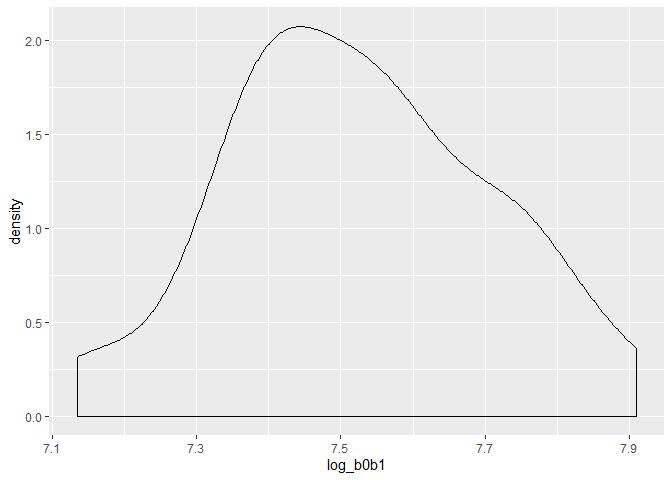
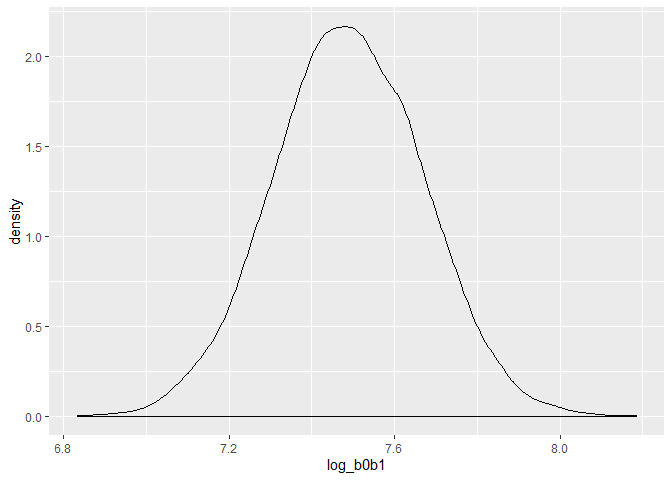
Changed bootstraps to 5000, added distribution descriptions

diff --git a/p8105_hw6_mrc2229.md b/p8105_hw6_mrc2229.md
@@ -331,7 +331,7 @@ weather_df =
     tmin = tmin / 10,
     tmax = tmax / 10) %>%
   select(name, id, everything())%>% 
-  bootstrap(n = 50)
+  bootstrap(n = 5000)
 ```
 
     ## Registered S3 method overwritten by 'crul':
@@ -348,8 +348,8 @@ weather_df =
 
     ## file min/max dates: 1869-01-01 / 2019-10-31
 
-Finding R-squared
------------------
+Distribution of R-squared
+-------------------------
 
 ``` r
 r_strap=weather_df %>%
@@ -367,10 +367,10 @@ r_strap=weather_df %>%
 r_strap
 ```
 
-![](p8105_hw6_mrc2229_files/figure-markdown_github/unnamed-chunk-10-1.png)
+![](p8105_hw6_mrc2229_files/figure-markdown_github/unnamed-chunk-10-1.png) \* The distribution of r-squared estimates appears to be left-skewed, and most of the estimates seem to fall between 0.90 and 0.92, with some higher than 0.93 and some lower than 0.88. Overall, the estimated values of r-squared in this sample are high.
 
-Finding log(β<sup>0∗β</sup>1)
------------------------------
+Distribution of log(β<sup>0∗β</sup>1)
+-------------------------------------
 
 ``` r
 beta_strap=weather_df %>%
@@ -394,3 +394,5 @@ beta_strap
 ```
 
 ![](p8105_hw6_mrc2229_files/figure-markdown_github/unnamed-chunk-11-1.png)
+
+-   The distribution of log(β<sup>0∗β</sup>1) fairly symetric. Most of the estimates seem to fall between 7.2 and 7.8, with some estimates going above 8.0 on the higher end and near 6.8 on the lower end.
